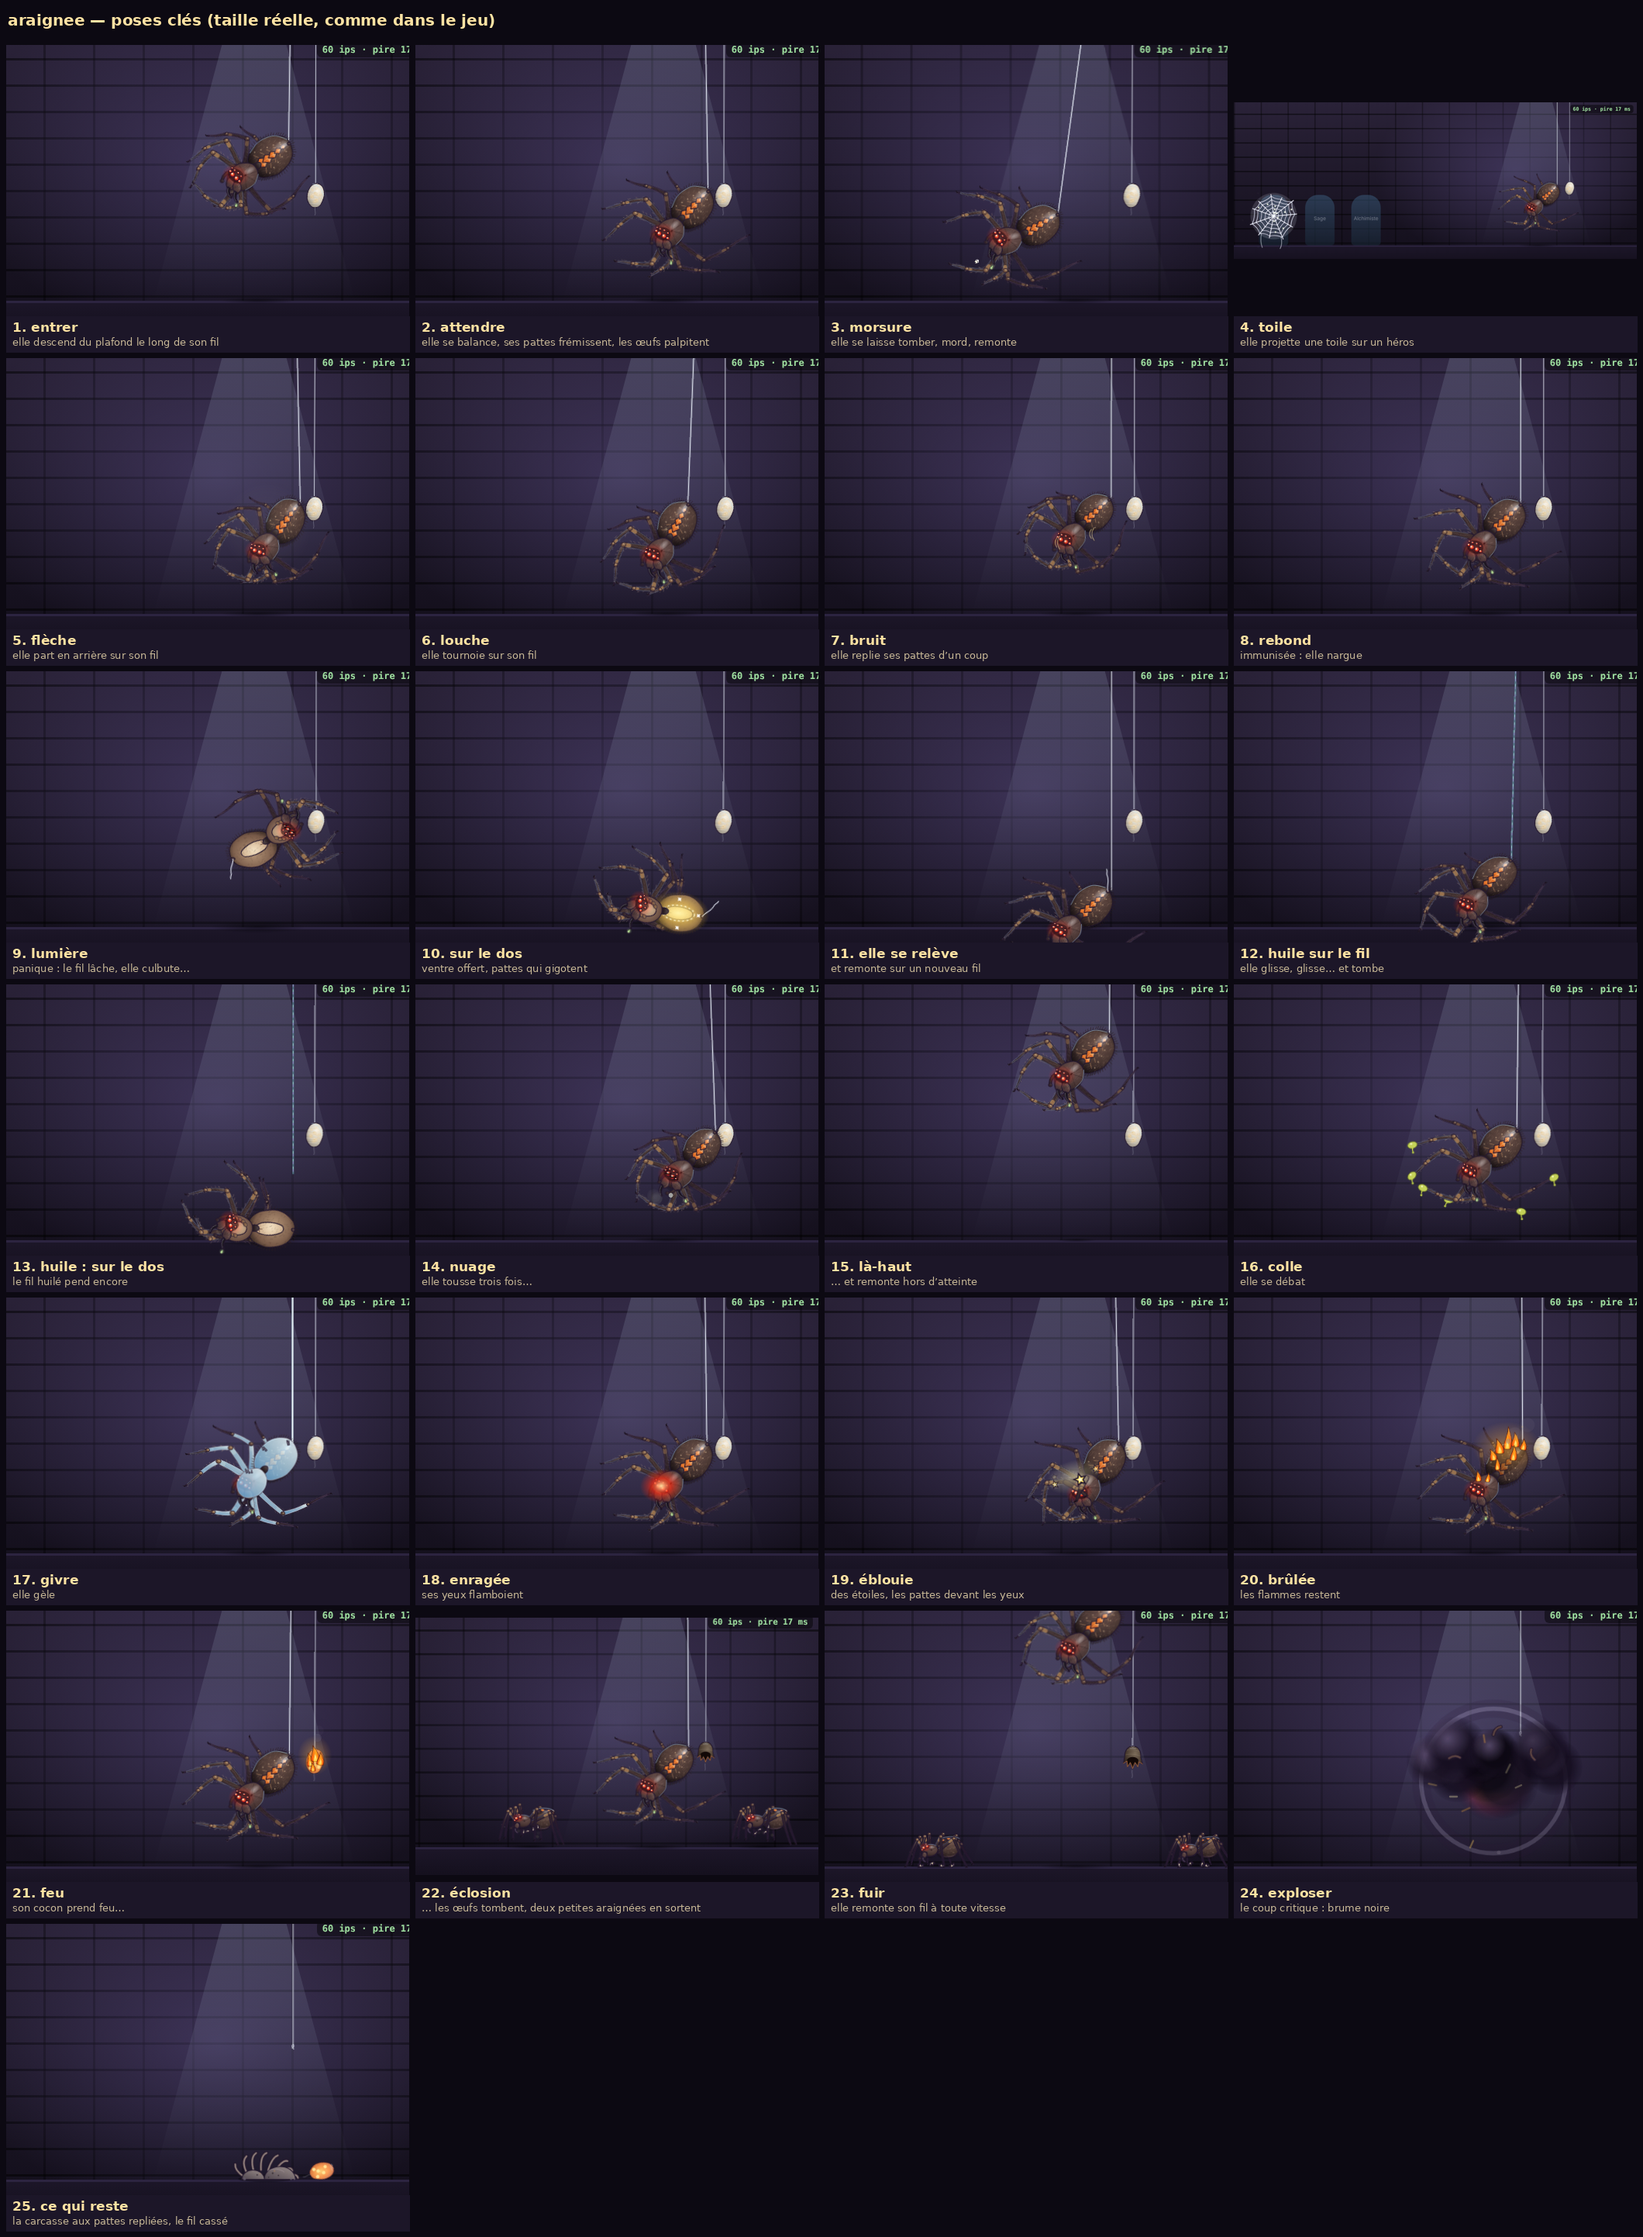
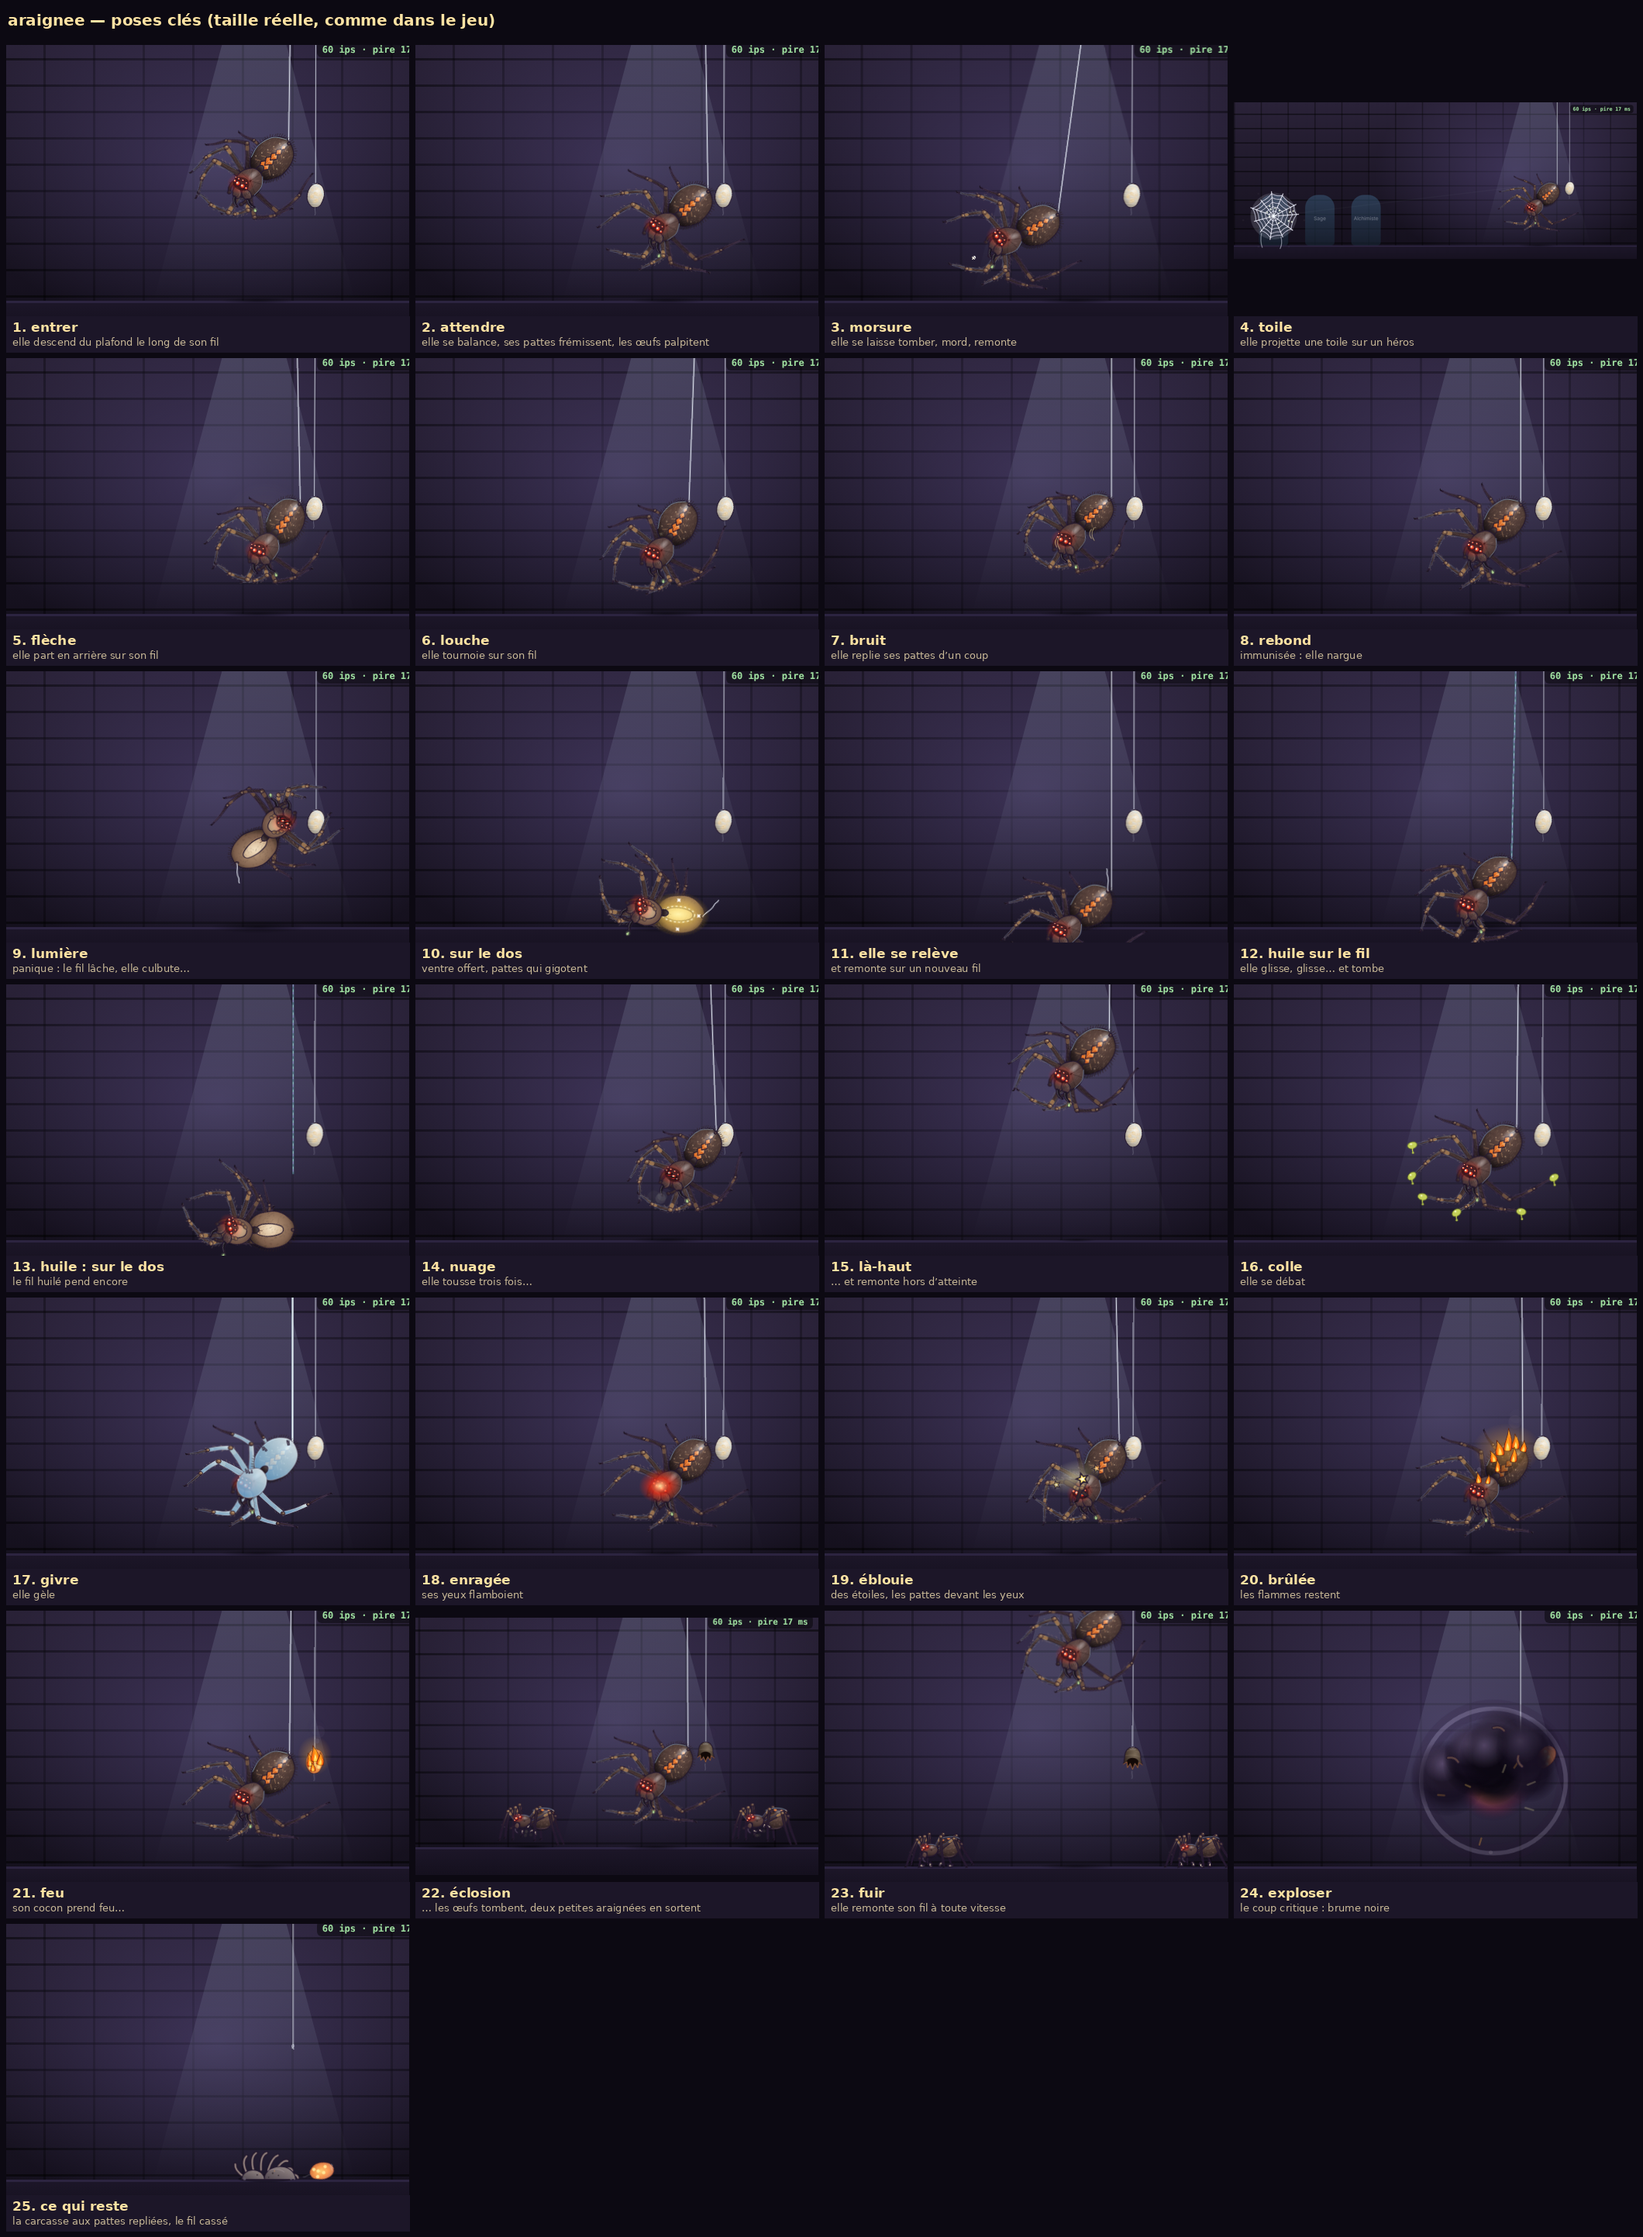
Atelier des sons : bouton « à refaire » (tests 59/59), en ligne
Claude-Session: https://claude.ai/code/session_014tBbPJtKqYNLRAPgA5SpCV

diff --git a/jeu/donjon/anim/betes/ratcuir/ratcuir-anime.js b/jeu/donjon/anim/betes/ratcuir/ratcuir-anime.js
@@ -575,10 +575,11 @@ B._flammes = function(cle, specs){
   if(!specs) return null;
   function flamme(h, w, r, n){
     var dl = (n * .13 % .4).toFixed(2), dur = (.3 + (n * .07 % .22)).toFixed(2);
-    return '<g transform="rotate(' + (r || 0) + ')">' +
-      '<path d="' + flammeD(h, w) + '" fill="' + G.feu1 + '" stroke="#5a1a08" stroke-width="2" class="' + PX + '-fl" style="animation-delay:-' + dl + 's;animation-duration:' + dur + 's"/>' +
-      '<path d="' + flammeD(h * .7, w * .62) + '" fill="#ffa21e" class="' + PX + '-fl2" style="animation-delay:-' + dl + 's;animation-duration:' + (dur * .8).toFixed(2) + 's"/>' +
-      '<path d="' + flammeD(h * .42, w * .36) + '" fill="' + G.feu2 + '"/></g>';
+    /* une seule animation par flamme (le groupe entier ondule) */
+    return '<g transform="rotate(' + (r || 0) + ')"><g class="' + PX + '-fl" style="animation-delay:-' + dl + 's;animation-duration:' + dur + 's">' +
+      '<path d="' + flammeD(h, w) + '" fill="' + G.feu1 + '" stroke="#5a1a08" stroke-width="2"/>' +
+      '<path d="' + flammeD(h * .7, w * .62) + '" fill="#ffa21e"/>' +
+      '<path d="' + flammeD(h * .42, w * .36) + '" fill="' + G.feu2 + '"/></g></g>';
   }
   var g = this._el(this.S.monde, ''), o = {g: g, specs: specs, raf: 0}, refs = [];
   specs.forEach(function(s, n){ s.g = self._el(g, (s.lueur ? '<ellipse cx="0" cy="' + f1(-s.lueur[1] * .4) + '" rx="' + s.lueur[0] + '" ry="' + s.lueur[1] + '" fill="' + G.lueurFeu + '"/>' : '') + (s.h ? flamme(s.h, s.w, s.r, n) : '')); if(refs.indexOf(s.ref) < 0) refs.push(s.ref); s.i = refs.indexOf(s.ref); });
@@ -1392,8 +1393,8 @@ R._evenement = function(){
 R._specsFeu = function(){
   var S = this.J.souffle.firstElementChild, T = this.J.tete.firstElementChild, Q = this.J.q2.firstElementChild, s = [];
   s.push({ref: S, x: 360, y: 150, lueur: [150, 90]});
-  [[262, 176, 46, 24, -12], [292, 156, 66, 30, -6], [322, 142, 84, 34, -2], [354, 132, 70, 30, 2], [386, 128, 96, 38, 0], [416, 134, 78, 32, 6], [446, 154, 88, 34, 10], [470, 190, 58, 26, 16], [484, 232, 42, 22, 22]].forEach(function(q){ s.push({ref: S, x: q[0], y: q[1], h: q[2], w: q[3], r: q[4]}); });
-  s.push({ref: T, x: 182, y: 200, h: 46, w: 22, r: -6}, {ref: T, x: 214, y: 214, h: 34, w: 18, r: 10});
+  [[268, 172, 52, 26, -12], [318, 144, 84, 36, -3], [362, 130, 74, 32, 2], [400, 128, 98, 40, 2], [446, 154, 88, 36, 10], [482, 222, 50, 24, 20]].forEach(function(q){ s.push({ref: S, x: q[0], y: q[1], h: q[2], w: q[3], r: q[4]}); });
+  s.push({ref: T, x: 190, y: 202, h: 46, w: 24, r: -6});
   s.push({ref: Q, x: 526, y: 274, h: 34, w: 18, r: 0, lueur: [34, 30]});
   return s;
 };

diff --git a/jeu/donjon/anim/betes/araignee/araignee-anime.js b/jeu/donjon/anim/betes/araignee/araignee-anime.js
@@ -572,10 +572,11 @@ B._flammes = function(cle, specs){
   if(!specs) return null;
   function flamme(h, w, r, n){
     var dl = (n * .13 % .4).toFixed(2), dur = (.3 + (n * .07 % .22)).toFixed(2);
-    return '<g transform="rotate(' + (r || 0) + ')">' +
-      '<path d="' + flammeD(h, w) + '" fill="' + G.feu1 + '" stroke="#5a1a08" stroke-width="2" class="' + PX + '-fl" style="animation-delay:-' + dl + 's;animation-duration:' + dur + 's"/>' +
-      '<path d="' + flammeD(h * .7, w * .62) + '" fill="#ffa21e" class="' + PX + '-fl2" style="animation-delay:-' + dl + 's;animation-duration:' + (dur * .8).toFixed(2) + 's"/>' +
-      '<path d="' + flammeD(h * .42, w * .36) + '" fill="' + G.feu2 + '"/></g>';
+    /* une seule animation par flamme (le groupe entier ondule) */
+    return '<g transform="rotate(' + (r || 0) + ')"><g class="' + PX + '-fl" style="animation-delay:-' + dl + 's;animation-duration:' + dur + 's">' +
+      '<path d="' + flammeD(h, w) + '" fill="' + G.feu1 + '" stroke="#5a1a08" stroke-width="2"/>' +
+      '<path d="' + flammeD(h * .7, w * .62) + '" fill="#ffa21e"/>' +
+      '<path d="' + flammeD(h * .42, w * .36) + '" fill="' + G.feu2 + '"/></g></g>';
   }
   var g = this._el(this.S.monde, ''), o = {g: g, specs: specs, raf: 0}, refs = [];
   specs.forEach(function(s, n){ s.g = self._el(g, (s.lueur ? '<ellipse cx="0" cy="' + f1(-s.lueur[1] * .4) + '" rx="' + s.lueur[0] + '" ry="' + s.lueur[1] + '" fill="' + G.lueurFeu + '"/>' : '') + (s.h ? flamme(s.h, s.w, s.r, n) : '')); if(refs.indexOf(s.ref) < 0) refs.push(s.ref); s.i = refs.indexOf(s.ref); });

diff --git a/jeu/donjon/anim/betes/petitearaignee/petitearaignee-anime.js b/jeu/donjon/anim/betes/petitearaignee/petitearaignee-anime.js
@@ -560,10 +560,11 @@ B._flammes = function(cle, specs){
   if(!specs) return null;
   function flamme(h, w, r, n){
     var dl = (n * .13 % .4).toFixed(2), dur = (.3 + (n * .07 % .22)).toFixed(2);
-    return '<g transform="rotate(' + (r || 0) + ')">' +
-      '<path d="' + flammeD(h, w) + '" fill="' + G.feu1 + '" stroke="#5a1a08" stroke-width="2" class="' + PX + '-fl" style="animation-delay:-' + dl + 's;animation-duration:' + dur + 's"/>' +
-      '<path d="' + flammeD(h * .7, w * .62) + '" fill="#ffa21e" class="' + PX + '-fl2" style="animation-delay:-' + dl + 's;animation-duration:' + (dur * .8).toFixed(2) + 's"/>' +
-      '<path d="' + flammeD(h * .42, w * .36) + '" fill="' + G.feu2 + '"/></g>';
+    /* une seule animation par flamme (le groupe entier ondule) */
+    return '<g transform="rotate(' + (r || 0) + ')"><g class="' + PX + '-fl" style="animation-delay:-' + dl + 's;animation-duration:' + dur + 's">' +
+      '<path d="' + flammeD(h, w) + '" fill="' + G.feu1 + '" stroke="#5a1a08" stroke-width="2"/>' +
+      '<path d="' + flammeD(h * .7, w * .62) + '" fill="#ffa21e"/>' +
+      '<path d="' + flammeD(h * .42, w * .36) + '" fill="' + G.feu2 + '"/></g></g>';
   }
   var g = this._el(this.S.monde, ''), o = {g: g, specs: specs, raf: 0}, refs = [];
   specs.forEach(function(s, n){ s.g = self._el(g, (s.lueur ? '<ellipse cx="0" cy="' + f1(-s.lueur[1] * .4) + '" rx="' + s.lueur[0] + '" ry="' + s.lueur[1] + '" fill="' + G.lueurFeu + '"/>' : '') + (s.h ? flamme(s.h, s.w, s.r, n) : '')); if(refs.indexOf(s.ref) < 0) refs.push(s.ref); s.i = refs.indexOf(s.ref); });

diff --git a/jeu/donjon/essai/sons-essai.html b/jeu/donjon/essai/sons-essai.html
@@ -115,6 +115,7 @@ details.sec details.sec details.sec .sec-titre{font-size:15px; color:var(--texte
 .son.a-refaire .refaire-t{color:#ffb27a; font-weight:700}
 .son .pourquoi{display:none; flex:1 1 100%; min-width:0; margin:2px 0 1px; padding:6px 8px; border-radius:8px; border:1px solid #6a5a48; background:#191523; color:var(--texte); font:14px Andika, sans-serif}
 .son.a-refaire .pourquoi{display:block}
+.vr{display:flex; flex-direction:column; align-items:center; margin-right:4px}
 
 </style>
 </head>
@@ -4146,7 +4147,7 @@ function carteSon(s){
   return c;
 }
 function caseRefaire(s, carte){
-  var boite = el('div', 'v refaire'), b = el('button', 'refaire-b', '🔁'); b.type = 'button';
+  var boite = el('div', 'vr'), b = el('button', 'refaire-b', '🔁'); b.type = 'button';
   b.setAttribute('aria-label', '« ' + s.t + ' » : à refaire');
   b.setAttribute('aria-pressed', etat.refaire[s.id] ? 'true' : 'false');
   b.addEventListener('click', function(){

diff --git a/jeu/donjon/essai/sons/page.css b/jeu/donjon/essai/sons/page.css
@@ -104,3 +104,4 @@ details.sec details.sec details.sec .sec-titre{font-size:15px; color:var(--texte
 .son.a-refaire .refaire-t{color:#ffb27a; font-weight:700}
 .son .pourquoi{display:none; flex:1 1 100%; min-width:0; margin:2px 0 1px; padding:6px 8px; border-radius:8px; border:1px solid #6a5a48; background:#191523; color:var(--texte); font:14px Andika, sans-serif}
 .son.a-refaire .pourquoi{display:block}
+.vr{display:flex; flex-direction:column; align-items:center; margin-right:4px}

diff --git a/jeu/donjon/essai/sons/page.js b/jeu/donjon/essai/sons/page.js
@@ -234,7 +234,7 @@ function carteSon(s){
   return c;
 }
 function caseRefaire(s, carte){
-  var boite = el('div', 'v refaire'), b = el('button', 'refaire-b', '🔁'); b.type = 'button';
+  var boite = el('div', 'vr'), b = el('button', 'refaire-b', '🔁'); b.type = 'button';
   b.setAttribute('aria-label', '« ' + s.t + ' » : à refaire');
   b.setAttribute('aria-pressed', etat.refaire[s.id] ? 'true' : 'false');
   b.addEventListener('click', function(){

diff --git a/jeu/donjon/essai/sons/test-page.py b/jeu/donjon/essai/sons/test-page.py
@@ -137,7 +137,7 @@ with sync_playwright() as p:
 
     print('— « à refaire » devant A, B, C (Romain, 12 h 03)')
     premier = pg.evaluate("[...document.querySelector('.son[data-id=bourbeCri] .vs').children].map(x => x.className)")
-    verif(premier and premier[0] == 'v refaire', 'le bouton 🔁 « à refaire » est devant A, B, C (%s)' % premier[:2])
+    verif(premier and premier[0] == 'vr', 'le bouton 🔁 « à refaire » est devant A, B, C (%s)' % premier[:2])
     neuf0 = pg.evaluate("document.querySelector('details[data-id=e-bourbe] > summary .neuf').textContent")
     pg.evaluate("document.querySelector('.son[data-id=bourbeRot] .refaire-b').click()")
     pg.evaluate("""(() => { const q = document.querySelector('.son[data-id=bourbeRot] .pourquoi'); q.value = 'trop long'; q.dispatchEvent(new Event('input')); })()""")
